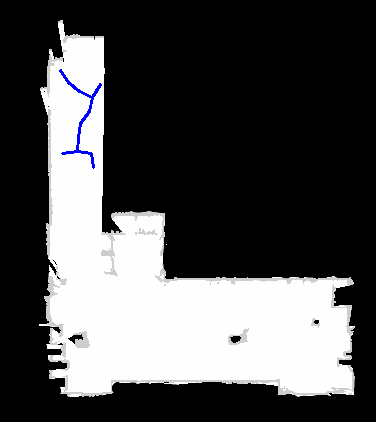
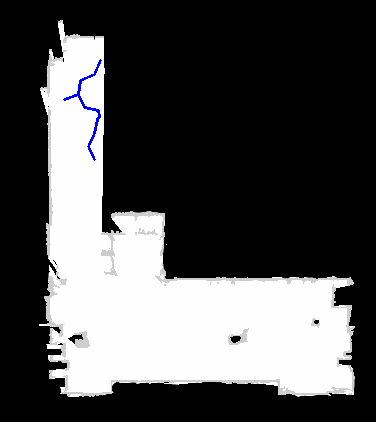
Made a main script, that incorperates RRT, and Djikstra. Kinematics implementation in RRT has begun aswell

Changed region(s): [[0.1755, 0.154, 0.2633, 0.4005], [0.1463, 0.154, 0.1755, 0.1848]]

diff --git a/RRT.py b/RRT.py
@@ -4,6 +4,11 @@ import matplotlib.pyplot as plt
 import cv2
 from nodeClass import Node
 from shapely import geometry as geo
+def findAngle(x0, y0, x1, y1):
+    delta_x = x1 - x0
+    delta_y = y1 - y0
+    theta_radians = math.atan2(delta_y, delta_x)
+    return math.degrees(theta_radians)
 def mesaureDist(node0 : Node, node1 : Node): # Measure the distance between two nodes using pythagoras theorem
     a = node1.pos[0]-node0.pos[0]
     a = a * a
@@ -17,9 +22,19 @@ def checkLine(imgNew, imgOld): # Check if the line on the current map is placed 
                 if (imgOld[idx][idy][0] == 205 or imgOld[idx][idy][0] == 0):
                     return False
     return True
-def makeLine(imgOld, x0, y0, x1, y1): # Creates line between two different sets of (x,y) coordinates on the new map
+def makeLine(imgOld,node0 : Node, node1 : Node, x0, y0, x1, y1): # Creates line between two different sets of (x,y) coordinates on the new map
+    x0 = node0.pos[0]
+    y0 = node0.pos[1]
+    x1 = node1.pos[0]
+    y1 = node1.pos[1]
     color = (255, 0, 0)
     newImage = imgOld.copy()
+    tempAngle = [findAngle(x0, y0, x1, y1)]
+    tempAngle.append(tempAngle[0]+45)
+    tempAngle.append(tempAngle[0]-45)
+    print(tempAngle)
+    for x in range(3):
+        pass
     cv2.line(newImage, (x0,y0),(x1,y1), color, 5)
     if checkLine(newImage, imgOld):
         cv2.line(imgOld, (x0,y0),(x1,y1), color, 2)
@@ -56,32 +71,37 @@ def nearestNode(nodes, point): # Iterates through each node generated and measur
     return(nodes[distList.index(tempNode)])
 
 def RTT(node, goal, img, stepSize = 30):
-    nodes = [node]
+    nodes : list[Node] = [node]
     i = 0
     while i  < 500:
         newCoords = getRPoint(img) # Stores coordinates in newCoords from the new generated point(using getRPoint on the map)
         _nearestNode = nearestNode(nodes, newCoords) # Measures distance too all generated nodes, takes the shortest distance and stores in _nearestnode variable
         x, y = createLineToNewPoint(_nearestNode, newCoords, stepSize) #generates a line to the new point and saves the new points coordinates as x, y
-        nodes.append(Node("N/A", int(x), int(y))) #appends new coordinates as a new/next node in the nodes list
+        nodes.append(Node(i, int(x), int(y))) #appends new coordinates as a new/next node in the nodes list
         i = i + 1
-        if not makeLine(img, _nearestNode.pos[0], _nearestNode.pos[1], nodes[-1].pos[0], nodes[-1].pos[1]): # If the line is false it will reset by not drawing the line and decrementing i 
+        if not makeLine(img, _nearestNode, nodes[-1]): # If the line is false it will reset by not drawing the line and decrementing i 
             nodes.pop(-1)                                                                                   # as the increment happens no matter what
             i = i - 1
         else:
             print(i)
-            cv2.imwrite("images/RRT"+str(i)+".png", img)           
+            cv2.imwrite("images/RRT"+str(i)+".png", img)      
+            nodes[-1].addConnection(nodes[-2])    
         if (mesaureDist(nodes[-1], goal) < stepSize): # If a node is within the stepSize distance of the goal node, a line will be created between the two nodes
             if makeLine(img, goal.pos[0], goal.pos[1], nodes[-1].pos[0], nodes[-1].pos[1]):
                 print("Reached goal!!!")
+                nodes.append(Node("Goal", goal.pos[0], goal.pos[1]))
+                nodes[-1].addConnection(nodes[-2])
                 return nodes
 
 
-img = cv2.imread("maps/mymap0.pgm")
-imgOrig = cv2.imread("maps/mymap0.pgm")
+if __name__ == "__main__":
+    #print(findAngle(1,1,0,2))
+    img = cv2.imread("maps/mymap0.pgm")
+    imgOrig = cv2.imread("maps/mymap0.pgm")
 
-startNode = Node("start", 60, 70)
-goal = Node("goal", 134, 3160)
-RTT(startNode,goal,img, 15)
-getRPoint(img)
-cv2.imshow("RRT algorithm from MiR Map - 2.5 meter clearance", img)
-cv2.waitKey() 
+    startNode = Node("start", 60, 70)
+    goal = Node("goal", 134, 3160)
+    RTT(startNode,goal,img, 15)
+    #getRPoint(img)
+    cv2.imshow("RRT algorithm from MiR Map - 2.5 meter clearance", img)
+    cv2.waitKey() 

diff --git a/nodeClass.py b/nodeClass.py
@@ -3,22 +3,20 @@ from cmath import sqrt
 class Node:
     def __init__(self, id, posX, posY):
         self.id = id
-        self.goal = None # not used
         self.pos = [posX, posY]
         self.connectedNodes = []
-        self.cost = [] # not used
-        self.route = [] # not used
         self.accumCost = 0
         self.backPointer = []
         self.cheapestBack = None
+        self.heading = None
     def addConnection(self, newConnection):
         if isinstance(newConnection, list):
             self.connectedNodes = self.connectedNodes + newConnection
             for node in newConnection:
-                addChild(node, self)
+                addConnection(node, self)
         else:
             self.connectedNodes = self.connectedNodes + [newConnection]
-            addChild(newConnection, self)
+            addConnection(newConnection, self)
     def __str__(self):
         stringToReturn = str(self.pos)
         return stringToReturn

diff --git a/main.py b/main.py
@@ -1,0 +1,21 @@
+from dijkstra import shortestRoute
+from nodeClass import Node
+import RRT
+import cv2
+map = cv2.imread("maps/cleanedMap.png")
+n0 = Node("a",80,80)
+n0.heading = 90
+n1 = Node("b",75,250)
+n2 = Node("c",140,330)
+n3 = Node("d",280,300)
+n4 = Node("e",280,360)
+n0.addConnection(n1)
+n1.addConnection(n2)
+n2.addConnection([n3, n4])
+n3.addConnection(n4)
+route = shortestRoute(n0,n3)
+currentTree = RRT.RTT(route[0],route[1],map, 15)
+cv2.imshow("RRT algorithm from MiR Map - 2.5 meter clearance", map)
+cv2.waitKey() 
+print(currentTree)
+print(currentTree[-1].connectedNodes)

diff --git a/Polynomial.py b/Polynomial.py
@@ -31,12 +31,12 @@ def trajectoryGen(tf, startX, startY, goalX, goalY, startAngle, goalAngle):
         y_r.append((a1*T**3 + b1*T**2 + c1*T + d1).real)
     return x_r, y_r
 
-x0, y0 = trajectoryGen(2, 1, 0, 2, 1, 90, 90)
+x0, y0 = trajectoryGen(2, 1, 1, 2, 2, 0, 45)
 x1, y1 = trajectoryGen(2, 1, 0, 2, 1, 90, 45)
 x2 , y2 = trajectoryGen(2, 1, 0, 2, 1, 90, 0)
 plt.figure("Trajectory Generator")
 plt.plot(x0, y0, color="red")
-plt.plot(x1, y1, color="blue")
+#plt.plot(x1, y1, color="blue")
 plt.plot(x2, y2, color="#0fee0f")
 
 plt.show()

diff --git a/solve.py b/solve.py
@@ -85,10 +85,13 @@ def trajectoryGen(tf, startX, startY, goalX, goalY, startAngle, goalAngle):
     #print(x_b_0)
     print(length)
 
-xBed, hBed, xRobot, hRobot = trajectoryGen(2, 1, 1, 2, 2, 90, 90)
+xBed, hBed, xRobot, hRobot = trajectoryGen(2, 7, 7, 14, 14, 135, 45)
 image = cv2.imread('blank.png')
+compound = True
 for x in range (len(xBed)-1):
     time = 0.05*x
+    if (compound):
+        image = cv2.imread('blank.png')
     bedX = (round(xBed[x][0],2))
     bedY = (round(xBed[x][1],2))
     bedH = degrees(acos(hBed[x][0]))
